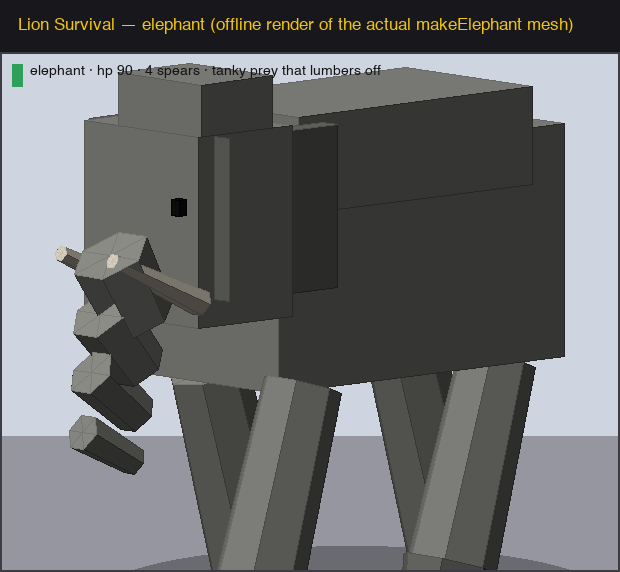
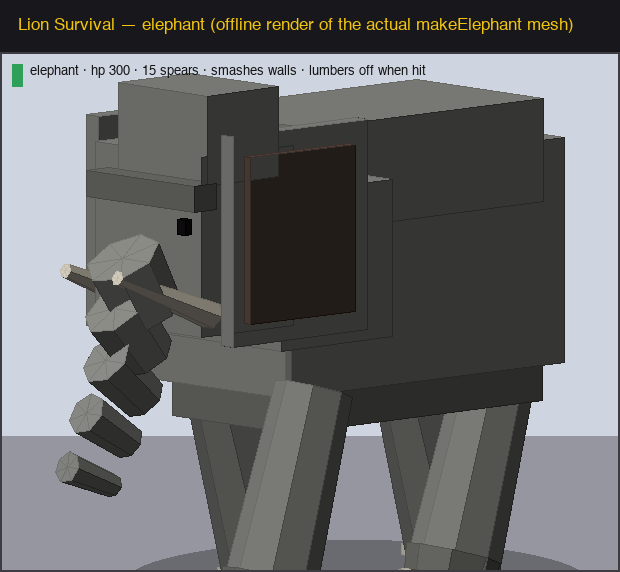
elephant: smashes walls, 15 spears to kill, nicer mesh
- Smashes walls in its path like the gorilla (new s.smash flag; updatePrey
  uses wallBlockingPath/removeWallAt on a cooldown). Verified: a moving
  elephant clears a blocking wall; a zebra does not.
- HP 90 -> 300 and spear damage maxHealth/15 -> exactly 15 spears to down
  (so spears out-damage rocks again; rocks ~34, big tank).
- Look: textured elephantTex() wrinkled hide, domed forehead + brow, bigger
  two-tone floppy ears, 5-segment curling trunk, curved tusks, foot toenails,
  belly/shoulder mass. Refreshed offline render.

Changed region(s): [[0.0613, 0.0892, 0.9194, 1.0], [0.2452, 0.9808, 0.2758, 1.0], [0.1839, 0.3864, 0.2145, 0.4161]]

diff --git a/index.html b/index.html
@@ -1829,7 +1829,7 @@ const SPECIES = {
   warthog:   { label:'warthog',    size:0.58, color:0x53493f, herd:[1,3], speed:15,   flee:11, hp:30, juke:0,   hop:0, neck:0.22, horns:null,      tusks:true, low:true, counter:14, food:34, dust:0 },
   kudu:      { label:'kudu',       size:1.18, color:0x8c7c66, herd:[1,2], speed:11,   flee:14, hp:72, juke:0,   hop:0, neck:0.9,  horns:'spiral',  stripeThin:true, food:70, dust:0 },
   giraffe:   { label:'giraffe',    size:1.6,  color:0xc79a52, herd:[2,4], speed:18,   flee:22, hp:40, juke:0,   hop:0, neck:2.2,  horns:null,      food:78, dust:0, custom:'giraffe' },
-  elephant:  { label:'elephant',   size:2.0,  color:0x8d8d88, herd:[1,3], speed:11,   flee:18, hp:90, juke:0,   hop:0, neck:0.6,  horns:null,      food:120, dust:1, custom:'elephant' },
+  elephant:  { label:'elephant',   size:2.0,  color:0x8d8d88, herd:[1,3], speed:11,   flee:18, hp:300, juke:0,  hop:0, neck:0.6,  horns:null,      food:150, dust:1, custom:'elephant', smash:true },
 };
 const SPECIES_KEYS = Object.keys(SPECIES);
 
@@ -1862,6 +1862,20 @@ function giraffeTex(){
     g.closePath(); g.fill();
   }
   const t=new THREE.CanvasTexture(cv); t.wrapS=t.wrapT=THREE.RepeatWrapping; return _giraffeTex=t;
+}
+
+// Wrinkled mottled grey elephant hide.
+let _eleTex=null;
+function elephantTex(){
+  if(_eleTex) return _eleTex;
+  const S=64, cv=document.createElement('canvas'); cv.width=cv.height=S; const g=cv.getContext('2d');
+  g.fillStyle='#8d8d88'; g.fillRect(0,0,S,S);
+  g.strokeStyle='rgba(92,92,88,0.45)'; g.lineWidth=1;
+  for(let i=0;i<20;i++){ const y=Math.random()*S; g.beginPath(); g.moveTo(0,y);
+    for(let x=0;x<=S;x+=8) g.lineTo(x, y+(Math.random()*4-2)); g.stroke(); }     // horizontal wrinkles
+  g.fillStyle='rgba(78,78,74,0.30)';
+  for(let i=0;i<16;i++){ g.beginPath(); g.arc(Math.random()*S, Math.random()*S, 1.5+Math.random()*3, 0, 6.28); g.fill(); }  // mottling
+  const t=new THREE.CanvasTexture(cv); t.wrapS=t.wrapT=THREE.RepeatWrapping; return _eleTex=t;
 }
 
 function addHorns(g, type, sc, hy, hz, col){
@@ -1970,37 +1984,48 @@ function makeGiraffe(){
 // contract so the prey loop drives it (it lumbers off when threatened/hit).
 function makeElephant(){
   const g=new THREE.Group();
-  const hide = lmat(jcol(0x8d8d88,0.04));   // grey
-  const hide2= lmat(jcol(0x6f6f6b,0.04));   // shadowed (ears/feet/underside)
+  const hide = new THREE.MeshLambertMaterial({map:elephantTex()});  // wrinkled grey hide
+  const hide2= lmat(jcol(0x73736e,0.03));   // shadowed (ear backs / feet / belly)
+  const inner= lmat(jcol(0x5a4a44,0.03));   // ear inner / mouth (warm grey)
   const tuskM= lmat(0xe8e0cf);
+  const nailM= lmat(0xd8d2c4);
   const dark = lmat(0x141014);
-  const legLen=1.5, bw=1.3, bh=1.5, bl=2.5, bodyY=legLen+bh*0.5;
-  // bulky body + domed back
+  const legLen=1.5, bw=1.35, bh=1.55, bl=2.6, bodyY=legLen+bh*0.5;
+  // bulky body — rounded back, slightly narrower belly, big shoulders
   const body=new THREE.Mesh(new THREE.BoxGeometry(bw,bh,bl), hide); body.position.y=bodyY; body.castShadow=true; g.add(body);
-  const back=new THREE.Mesh(new THREE.BoxGeometry(bw*0.92,bh*0.42,bl*0.82), hide); back.position.set(0,bodyY+bh*0.46,0); g.add(back);
-  // head + domed crown
-  const headZ=bl*0.5+0.18, headY=bodyY+bh*0.22;
-  const head=new THREE.Mesh(new THREE.BoxGeometry(bw*0.82,bh*0.82,0.82), hide); head.position.set(0,headY,headZ); head.castShadow=true; g.add(head);
-  const dome=new THREE.Mesh(new THREE.BoxGeometry(bw*0.6,0.5,0.62), hide); dome.position.set(0,headY+bh*0.45,headZ-0.06); g.add(dome);
-  // big flat ears, angled outward
-  [-1,1].forEach(d=>{ const ear=new THREE.Mesh(new THREE.BoxGeometry(0.12,1.05,0.95), hide2); ear.position.set(d*bw*0.45, headY+0.08, headZ-0.22); ear.rotation.y=d*0.5; ear.rotation.z=d*0.12; g.add(ear); });
-  // trunk — tapering segments curving down & forward
-  let cy=headY-0.05, cz=headZ+0.5;
-  for(let i=0;i<4;i++){ const r=0.26-i*0.045; const seg=new THREE.Mesh(new THREE.CylinderGeometry(r,r-0.03,0.5,6), hide);
-    cy-=0.34; cz+=0.05; seg.position.set(0,cy,cz); seg.rotation.x=0.55+i*0.18; g.add(seg); }
-  // tusks
-  [-1,1].forEach(d=>{ const t=new THREE.Mesh(new THREE.CylinderGeometry(0.05,0.09,0.85,6), tuskM); t.position.set(d*0.24, headY-0.34, headZ+0.5); t.rotation.x=1.15; g.add(t); });
+  const back=new THREE.Mesh(new THREE.BoxGeometry(bw*0.94,bh*0.46,bl*0.84), hide); back.position.set(0,bodyY+bh*0.45,-0.05); g.add(back);
+  const belly=new THREE.Mesh(new THREE.BoxGeometry(bw*0.88,bh*0.5,bl*0.9), hide2); belly.position.set(0,bodyY-bh*0.42,0); g.add(belly);
+  const shoulder=new THREE.Mesh(new THREE.BoxGeometry(bw*1.02,bh*0.7,bl*0.4), hide); shoulder.position.set(0,bodyY+0.1,bl*0.32); g.add(shoulder);
+  // head: blocky skull + domed forehead + heavy brow
+  const headZ=bl*0.5+0.22, headY=bodyY+bh*0.2;
+  const head=new THREE.Mesh(new THREE.BoxGeometry(bw*0.78,bh*0.8,0.86), hide); head.position.set(0,headY,headZ); head.castShadow=true; g.add(head);
+  const dome=new THREE.Mesh(new THREE.BoxGeometry(bw*0.66,0.62,0.66), hide); dome.position.set(0,headY+bh*0.46,headZ-0.04); g.add(dome);
+  const brow=new THREE.Mesh(new THREE.BoxGeometry(bw*0.8,0.18,0.2), hide2); brow.position.set(0,headY+0.34,headZ+0.4); g.add(brow);
+  // BIG floppy two-tone ears — fan out and back, drooping a little
+  [-1,1].forEach(d=>{
+    const ear=new THREE.Mesh(new THREE.BoxGeometry(0.10,1.45,1.25), hide);
+    ear.position.set(d*bw*0.5, headY+0.05, headZ-0.3); ear.rotation.y=d*0.65; ear.rotation.z=d*0.18; ear.rotation.x=-0.12; ear.castShadow=true; g.add(ear);
+    const ein=new THREE.Mesh(new THREE.BoxGeometry(0.06,1.15,0.98), inner);
+    ein.position.set(d*(bw*0.5+0.06), headY+0.05, headZ-0.28); ein.rotation.copy(ear.rotation); g.add(ein);
+  });
+  // trunk — five tapering segments curling down then forward to the tip
+  let cy=headY+0.02, cz=headZ+0.5;
+  for(let i=0;i<5;i++){ const r=0.27-i*0.04; const seg=new THREE.Mesh(new THREE.CylinderGeometry(r,r-0.03,0.46,7), hide);
+    cy-=0.32; cz+=(i<3?0.05:0.16); seg.position.set(0,cy,cz); seg.rotation.x=0.55+i*0.16; g.add(seg); }
+  // tusks — curving cream
+  [-1,1].forEach(d=>{ const t=new THREE.Mesh(new THREE.CylinderGeometry(0.05,0.10,0.95,6), tuskM); t.position.set(d*0.26, headY-0.36, headZ+0.52); t.rotation.x=1.2; t.rotation.z=-d*0.12; g.add(t); });
   // eyes
-  [-1,1].forEach(d=>{ const e=new THREE.Mesh(new THREE.BoxGeometry(0.08,0.1,0.06), dark); e.position.set(d*0.32, headY+0.14, headZ+0.38); g.add(e); });
-  // thick hip-pivot legs (swing via the prey loop) with broad feet
+  [-1,1].forEach(d=>{ const e=new THREE.Mesh(new THREE.BoxGeometry(0.08,0.1,0.06), dark); e.position.set(d*0.33, headY+0.12, headZ+0.4); g.add(e); });
+  // thick hip-pivot legs (swing via the prey loop) with broad feet + pale toenails
   const legs=[];
-  const mkLeg=(lx,lz)=>{ const geo=new THREE.CylinderGeometry(0.26,0.30,legLen,7); geo.translate(0,-legLen/2,0);
+  const mkLeg=(lx,lz)=>{ const geo=new THREE.CylinderGeometry(0.27,0.32,legLen,8); geo.translate(0,-legLen/2,0);
     const leg=new THREE.Mesh(geo, hide); leg.position.set(lx, legLen, lz); leg.castShadow=true; g.add(leg); legs.push(leg);
-    const foot=new THREE.Mesh(new THREE.CylinderGeometry(0.31,0.28,0.16,7), hide2); foot.position.set(0,-legLen+0.08,0); leg.add(foot); };
-  mkLeg(-bw*0.34, bl*0.34); mkLeg(bw*0.34, bl*0.34); mkLeg(-bw*0.34,-bl*0.34); mkLeg(bw*0.34,-bl*0.34);
+    const foot=new THREE.Mesh(new THREE.CylinderGeometry(0.33,0.30,0.18,8), hide2); foot.position.set(0,-legLen+0.09,0); leg.add(foot);
+    for(let n=-1;n<=1;n++){ const nail=new THREE.Mesh(new THREE.BoxGeometry(0.1,0.08,0.06), nailM); nail.position.set(n*0.12,-legLen+0.04,0.30); leg.add(nail); } };
+  mkLeg(-bw*0.34, bl*0.32); mkLeg(bw*0.34, bl*0.32); mkLeg(-bw*0.34,-bl*0.34); mkLeg(bw*0.34,-bl*0.34);
   // tail
-  const tail=new THREE.Mesh(new THREE.CylinderGeometry(0.05,0.04,0.9,5), hide); tail.position.set(0,bodyY-0.05,-bl*0.5-0.05); tail.rotation.x=0.4; g.add(tail);
-  const tuft=new THREE.Mesh(new THREE.SphereGeometry(0.09,5,4), dark); tuft.position.set(0,bodyY-0.55,-bl*0.5-0.2); g.add(tuft);
+  const tail=new THREE.Mesh(new THREE.CylinderGeometry(0.05,0.04,0.95,5), hide); tail.position.set(0,bodyY-0.05,-bl*0.5-0.05); tail.rotation.x=0.4; g.add(tail);
+  const tuft=new THREE.Mesh(new THREE.SphereGeometry(0.09,5,4), dark); tuft.position.set(0,bodyY-0.55,-bl*0.5-0.22); g.add(tuft);
   g.children.forEach(c=>{ if(c.isMesh) c.userData.origMat=c.material; });
   return { group:g, legs, bodyY, legLen };
 }
@@ -2118,6 +2143,17 @@ function updatePrey(dt){
     let hopY=0;
     if(s.hop && P.state==='flee'){ P.hopPhase+=dt*6.5; hopY=Math.max(0,Math.sin(P.hopPhase))*0.55*s.size; }
     if(s.dust && P.state==='flee' && Math.random()<dt*3.5) spawnDustPuff(P.pos);
+
+    // Big bulldozers (elephant) SMASH through walls in their path, like the gorilla.
+    if(s.smash){
+      P.smashCd = Math.max(0, (P.smashCd||0) - dt);
+      if(P.smashCd<=0 && speed>0.5 && dir.lengthSq()>0.01){
+        const wb = wallBlockingPath(P, P.pos.x+dir.x*6, P.pos.z+dir.z*6);
+        if(wb>=0){ const wp = removeWallAt(wb);
+          if(wp){ P.smashCd=0.8; playSound('place'); showKillfeed('🐘 An elephant smashed a wall');
+            if(wp.distanceTo(player.pos)<18){ shakeTime=Math.max(shakeTime,0.25); shakeAmt=0.006; } } }
+      }
+    }
 
     P.pos.addScaledVector(dir, speed*dt);
     P.pos.x=clamp(P.pos.x,-(HALF-1),HALF-1); P.pos.z=clamp(P.pos.z,-(HALF-1),HALF-1);
@@ -3455,7 +3491,7 @@ function updateThrownRocks(dt){
     // A spear one-shots most animals; the kudu takes two, the tall tough giraffe three; rocks wound.
     if(!hit) preyMeshes.forEach(P=>{
       if(r.mesh.position.distanceTo(P.pos) < 1.7){
-        P.health -= r.spear ? (P.species==='kudu' ? P.maxHealth/2 : P.species==='giraffe' ? P.maxHealth/3 : P.species==='elephant' ? P.maxHealth/4 : P.maxHealth) : 9*m;
+        P.health -= r.spear ? (P.species==='kudu' ? P.maxHealth/2 : P.species==='giraffe' ? P.maxHealth/3 : P.species==='elephant' ? P.maxHealth/15 : P.maxHealth) : 9*m;
         P.flashTimer = 0.25; P.stunTimer = 2.5; P.state='flee'; P.alertTimer = 3;
         hit = true;
         showKillfeed(P.health<=0 ? ic+' Kill — '+P.label+'!' : ic+' Stunned the '+P.label);

diff --git a/dossiers/render_elephant.py b/dossiers/render_elephant.py
@@ -35,32 +35,38 @@ def cyl(rt,rb,h,seg,col,cx,cy,cz,rx=0.0):
         f.append(([(0,h/2,0),t0,t1],(0,1,0),col));f.append(([(0,-h/2,0),b1,b0],(0,-1,0),col))
     return _pl(f,rx,cx,cy,cz)
 
-HIDE,HIDE2,TUSK,DARK=0x8d8d88,0x6f6f6b,0xe8e0cf,0x141014
+HIDE,HIDE2,INNER,TUSK,NAIL,DARK=0x8d8d88,0x73736e,0x5a4a44,0xe8e0cf,0xd8d2c4,0x141014
 def elephant():
     f=[]
-    legLen=1.5;bw=1.3;bh=1.5;bl=2.5;bodyY=legLen+bh*0.5
+    legLen=1.5;bw=1.35;bh=1.55;bl=2.6;bodyY=legLen+bh*0.5
     f+=box(bw,bh,bl,HIDE,0,bodyY,0)
-    f+=box(bw*0.92,bh*0.42,bl*0.82,HIDE,0,bodyY+bh*0.46,0)
-    headZ=bl*0.5+0.18;headY=bodyY+bh*0.22
-    f+=box(bw*0.82,bh*0.82,0.82,HIDE,0,headY,headZ)
-    f+=box(bw*0.6,0.5,0.62,HIDE,0,headY+bh*0.45,headZ-0.06)
-    for d in(-1,1): f+=box(0.14,1.05,0.95,HIDE2,d*bw*0.45,headY+0.08,headZ-0.22)   # ears (axis-aligned approx)
-    cy=headY-0.05;cz=headZ+0.5
-    for i in range(4):
-        r=0.26-i*0.045;cy-=0.34;cz+=0.05
-        f+=cyl(r,r-0.03,0.5,6,HIDE,0,cy,cz,0.55+i*0.18)
-    for d in(-1,1): f+=cyl(0.05,0.09,0.85,6,TUSK,d*0.24,headY-0.34,headZ+0.5,1.15)
-    for d in(-1,1): f+=box(0.08,0.1,0.06,DARK,d*0.32,headY+0.14,headZ+0.38)
+    f+=box(bw*0.94,bh*0.46,bl*0.84,HIDE,0,bodyY+bh*0.45,-0.05)
+    f+=box(bw*0.88,bh*0.5,bl*0.9,HIDE2,0,bodyY-bh*0.42,0)
+    f+=box(bw*1.02,bh*0.7,bl*0.4,HIDE,0,bodyY+0.1,bl*0.32)
+    headZ=bl*0.5+0.22;headY=bodyY+bh*0.2
+    f+=box(bw*0.78,bh*0.8,0.86,HIDE,0,headY,headZ)
+    f+=box(bw*0.66,0.62,0.66,HIDE,0,headY+bh*0.46,headZ-0.04)
+    f+=box(bw*0.8,0.18,0.2,HIDE2,0,headY+0.34,headZ+0.4)
+    for d in(-1,1):                                   # big ears (axis-aligned approx of the rotated mesh)
+        f+=box(0.12,1.45,1.25,HIDE,d*bw*0.5,headY+0.05,headZ-0.3)
+        f+=box(0.06,1.15,0.98,INNER,d*(bw*0.5+0.08),headY+0.05,headZ-0.28)
+    cy=headY+0.02;cz=headZ+0.5
+    for i in range(5):
+        r=0.27-i*0.04;cy-=0.32;cz+=(0.05 if i<3 else 0.16)
+        f+=cyl(r,r-0.03,0.46,7,HIDE,0,cy,cz,0.55+i*0.16)
+    for d in(-1,1): f+=cyl(0.05,0.10,0.95,6,TUSK,d*0.26,headY-0.36,headZ+0.52,1.2)
+    for d in(-1,1): f+=box(0.08,0.1,0.06,DARK,d*0.33,headY+0.12,headZ+0.4)
     def leg(lx,lz,a):
         ln=legLen;cx=lx;cyl_y=ln+(-math.cos(a))*ln/2;cz2=lz+(-math.sin(a))*ln/2
-        out=cyl(0.26,0.30,ln,7,HIDE,cx,cyl_y,cz2,a)
+        out=cyl(0.27,0.32,ln,8,HIDE,cx,cyl_y,cz2,a)
         hx=lx;hy=ln+(-math.cos(a))*ln;hz=lz+(-math.sin(a))*ln
-        out+=cyl(0.31,0.28,0.16,7,HIDE2,hx,hy+0.08,hz,a)
+        out+=cyl(0.33,0.30,0.18,8,HIDE2,hx,hy+0.09,hz,a)
+        for n in(-1,0,1): out+=box(0.1,0.08,0.06,NAIL,hx+n*0.12,hy+0.04,hz+0.30)
         return out
-    f+=leg(-bw*0.34, bl*0.34, 0.3); f+=leg(-bw*0.34,-bl*0.34, 0.3)   # left side forward
-    f+=leg( bw*0.34, bl*0.34,-0.3); f+=leg( bw*0.34,-bl*0.34,-0.3)   # right side back
-    f+=cyl(0.05,0.04,0.9,5,HIDE,0,bodyY-0.05,-bl*0.5-0.05,0.4)
-    f+=box(0.18,0.18,0.18,DARK,0,bodyY-0.55,-bl*0.5-0.2)
+    f+=leg(-bw*0.34, bl*0.32, 0.3); f+=leg(-bw*0.34,-bl*0.34, 0.3)   # left side forward
+    f+=leg( bw*0.34, bl*0.32,-0.3); f+=leg( bw*0.34,-bl*0.34,-0.3)   # right side back
+    f+=cyl(0.05,0.04,0.95,5,HIDE,0,bodyY-0.05,-bl*0.5-0.05,0.4)
+    f+=box(0.18,0.18,0.18,DARK,0,bodyY-0.55,-bl*0.5-0.22)
     return f
 
 YAW,PITCH=-0.82,0.14;LIGHT=norm((-0.4,0.7,0.6))
@@ -93,6 +99,6 @@ W,H,th=620,520,52;sheet=Image.new('RGB',(W,th+H),(24,24,28));d=ImageDraw.Draw(sh
 d.text((18,16),'Lion Survival — elephant (offline render of the actual makeElephant mesh)',font=font(17),fill=(241,196,15))
 panel=project(elephant(),W,H);dd=ImageDraw.Draw(panel)
 dd.rectangle([0,0,W-1,H-1],outline=(60,60,66),width=2);dd.rectangle([12,12,22,34],fill=(46,160,90))
-dd.text((30,12),'elephant · hp 90 · 4 spears · tanky prey that lumbers off',font=font(14),fill=(20,20,20))
+dd.text((30,12),'elephant · hp 300 · 15 spears · smashes walls · lumbers off when hit',font=font(13),fill=(20,20,20))
 sheet.paste(panel,(0,th))
 out='/Users/openclaw/Documents/lion-survival/dossiers/elephant_render.png';sheet.save(out);print('wrote',out,sheet.size)

diff --git a/CONTEXT.md b/CONTEXT.md
@@ -183,9 +183,11 @@ plus two custom-mesh giants (`custom:` flag → dedicated builder + `makeHerbivo
 **hip-pivot legs that SWING** via the `s.custom` branch in `updatePrey`'s leg animation):
 - **giraffe** (`makeGiraffe`, reticulated `giraffeTex()` coat, mane, withers/rump slope, ossicones): hp 40
   ≈ a lion, speed 18 so it **outruns even a sprinting player** (16), **3 spears** to down.
-- **elephant** (`makeElephant`, domed head, big ears, curling trunk, tusks, thick legs): hp **90**
-  (tankiest prey), speed 11, **4 spears** to down, big carcass (food 120).
+- **elephant** (`makeElephant`, textured `elephantTex()` hide, domed forehead+brow, big two-tone floppy
+  ears, 5-seg curling trunk, tusks, toenails): hp **300** (tankiest by far), speed 11, **15 spears** to
+  down, big carcass (food 150). **SMASHES walls in its path** like the gorilla (`s.smash` flag →
+  `wallBlockingPath`/`removeWallAt` in `updatePrey`, on a cooldown) — it still flees when hit.
 
-Spear kill-counts (`updateThrownRocks` prey branch): kudu 2, giraffe 3, elephant 4, other prey 1.
+Spear kill-counts (`updateThrownRocks` prey branch): kudu 2, giraffe 3, elephant 15, other prey 1.
 
 Each phase is an independent commit so it can be iterated in isolation.